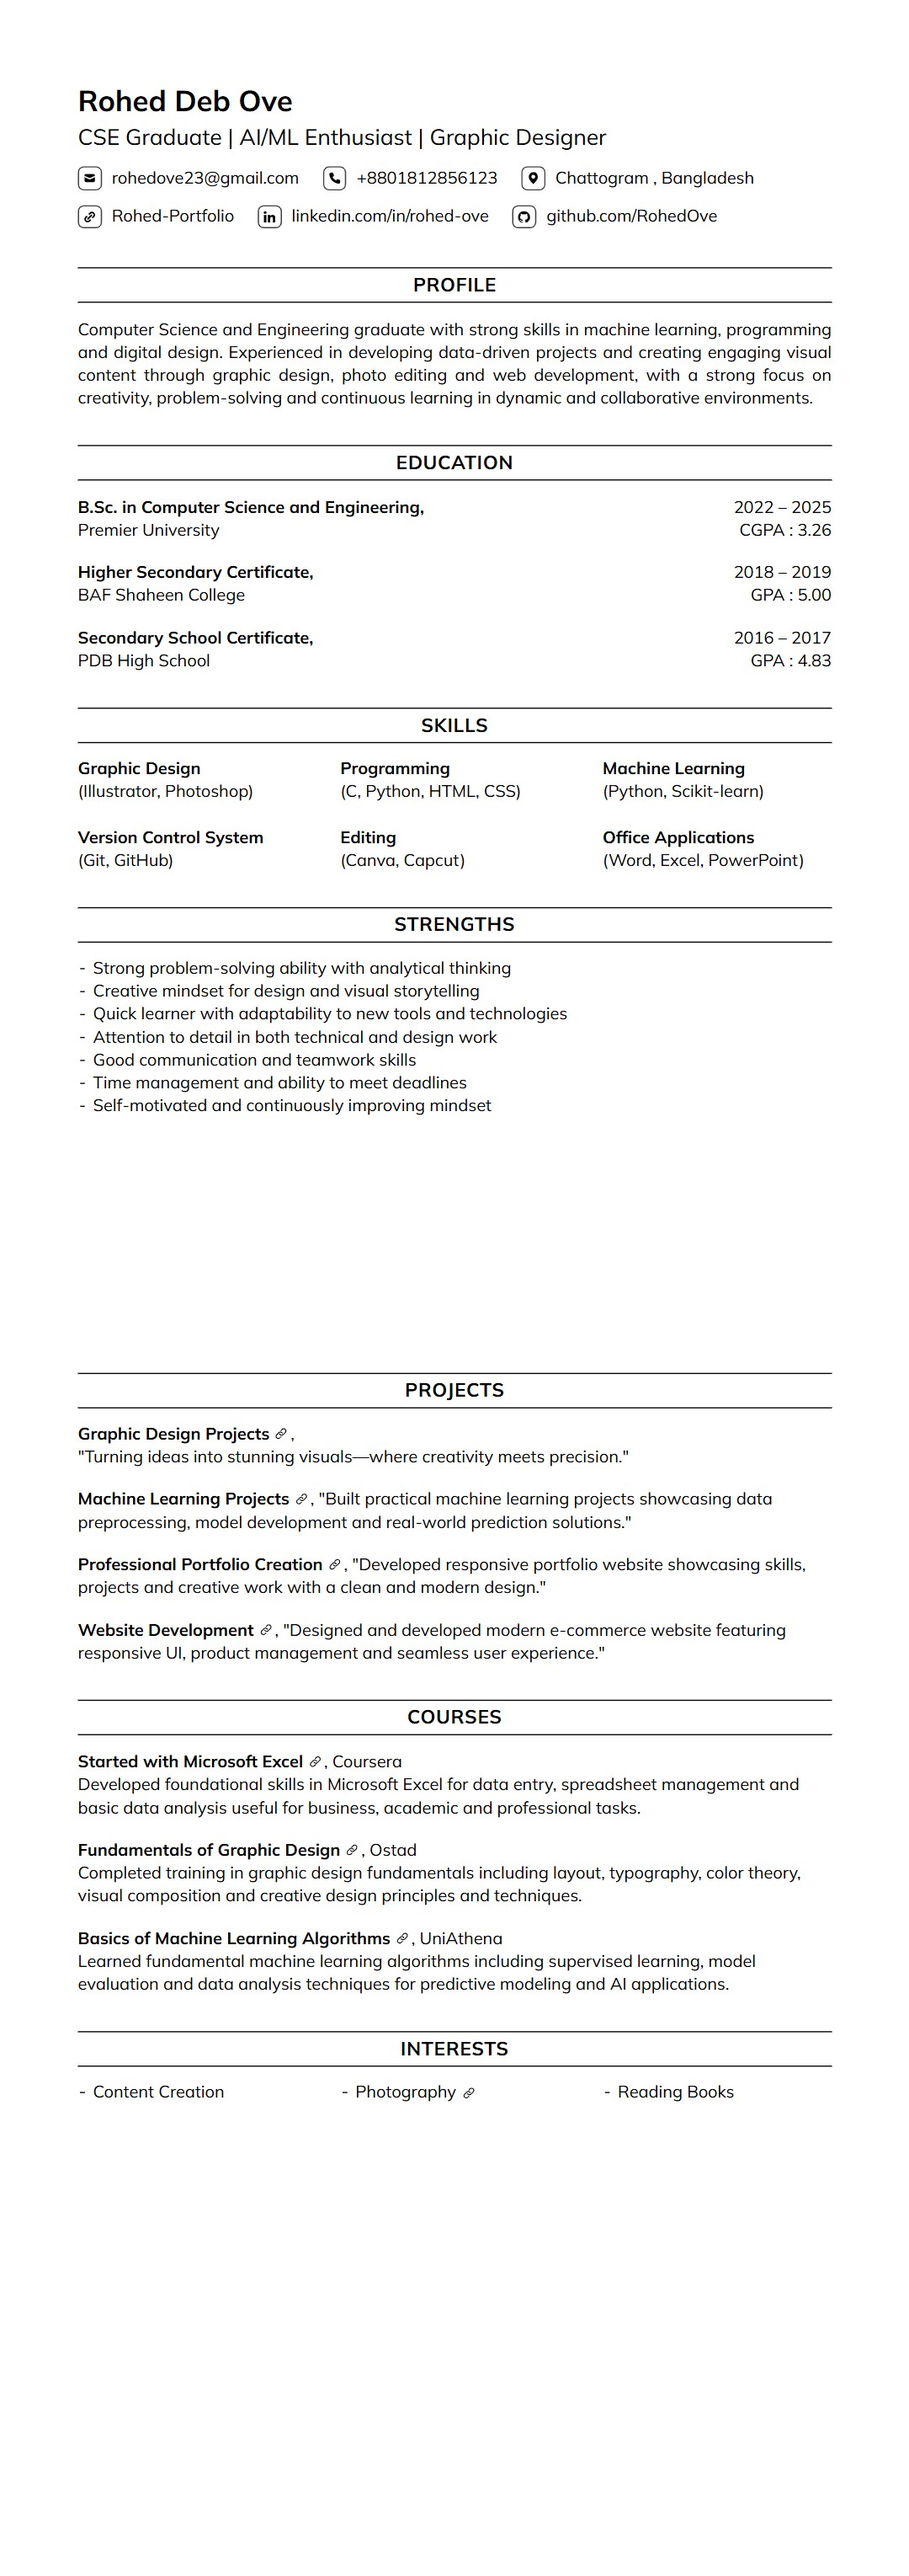
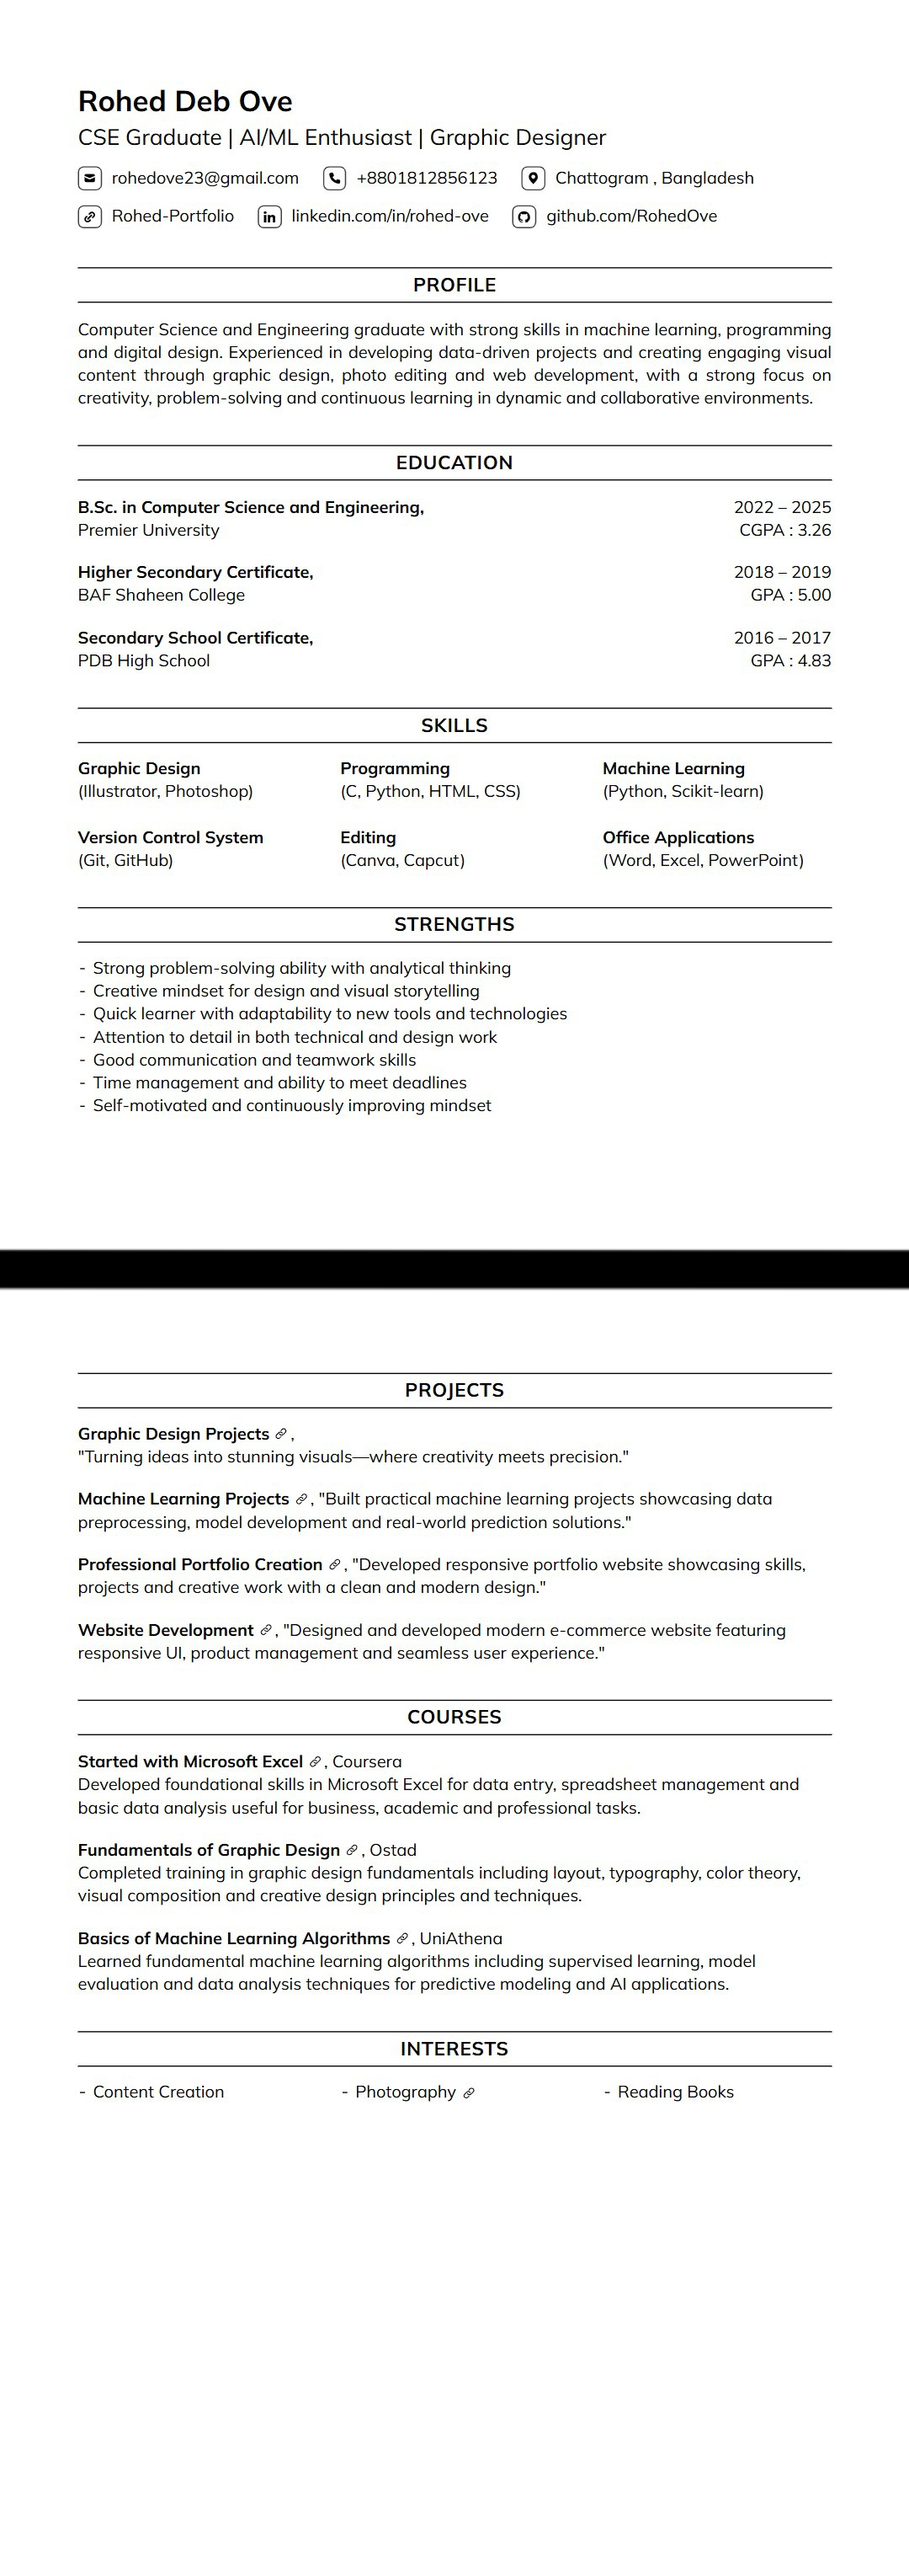
add

Changed region(s): [[0.0, 0.466, 1.0, 0.5281]]

diff --git a/index.html b/index.html
@@ -2080,7 +2080,7 @@
         <a href="#about">About</a>
         <a href="#education">Education</a>
         <a href="#experience">Experience</a>
-        <a href="#work">Work</a>
+        <a href="#work">Projects</a>
         <a href="#courses">Courses</a>
         <a href="#contact">Contact</a>
       </nav>
@@ -2092,10 +2092,11 @@
             </svg>
           </span>
           <span class="ts-icon icon-sun" aria-hidden="true">
-            <svg viewBox="0 0 24 24" fill="none" stroke="currentColor" stroke-width="2.4"
-              stroke-linecap="round" stroke-linejoin="round">
+            <svg viewBox="0 0 24 24" fill="none" stroke="currentColor" stroke-width="2.4" stroke-linecap="round"
+              stroke-linejoin="round">
               <circle cx="12" cy="12" r="4.2" />
-              <path d="M12 2.5v2.4M12 19.1v2.4M4.4 4.4l1.7 1.7M17.9 17.9l1.7 1.7M2.5 12h2.4M19.1 12h2.4M4.4 19.6l1.7-1.7M17.9 6.1l1.7-1.7" />
+              <path
+                d="M12 2.5v2.4M12 19.1v2.4M4.4 4.4l1.7 1.7M17.9 17.9l1.7 1.7M2.5 12h2.4M19.1 12h2.4M4.4 19.6l1.7-1.7M17.9 6.1l1.7-1.7" />
             </svg>
           </span>
           <span class="theme-switch-knob"></span>
@@ -2113,7 +2114,7 @@
     <a href="#about">About</a>
     <a href="#education">Education</a>
     <a href="#experience">Experience</a>
-    <a href="#work">Work</a>
+    <a href="#work">Projects</a>
     <a href="#courses">Courses</a>
     <a href="#contact">Contact</a>
   </div>
@@ -2124,14 +2125,14 @@
     <section class="hero">
       <div class="container hero-grid">
         <div>
-          <span class="eyebrow">CSE Graduate — Chattogram, Bangladesh</span>
+          <span class="eyebrow">ENGINEERING DIGITAL SOLUTIONS</span>
           <h1 class="hero-name">Rohed<br><em>Deb Ove</em></h1>
-          <p class="hero-tagline">CSE graduate with a passion for machine learning, creative design and building things
+          <p class="hero-tagline">cse graduate with a passion for machine learning, creative design and building things
             that matter.</p>
           <div class="hero-cta">
-            <a href="#work" class="btn btn-primary magnetic" data-cursor="View">See the work</a>
+            <a href="#work" class="btn btn-primary magnetic" data-cursor="View">See the Work</a>
             <a href="#resume" class="btn btn-outline magnetic" data-cursor="CV">View CV</a>
-            <a href="#contact" class="btn btn-primary magnetic" data-cursor="Hello">Say hello</a>
+            <a href="#contact" class="btn btn-primary magnetic" data-cursor="Hello">Say Hello</a>
           </div>
         </div>
         <div class="hero-side">
@@ -2168,19 +2169,22 @@
         </div>
         <div class="about-bio">
           <span class="eyebrow reveal">About</span>
-          <h2 class="reveal">Crafting ideas into reality.</h2>
+          <h2 class="reveal">Crafting Ideas Into Reality</h2>
           <p class="reveal">I'm a <strong>Computer Science and Engineering graduate</strong> with interest in machine
             learning, programming and digital design. I enjoy building systems that are intelligent and visually
             compelling.</p>
-          <p class="reveal">My work spans from <strong>training predictive ML models</strong> to designing sharp visual
-            identities and developing responsive web experiences — always with a focus on creativity, precision and
-            purpose.</p>
+          <p class="reveal">My work spans from <strong>training predictive ML models</strong> to designing sharp
+            <strong>visual
+              identities</strong> and developing responsive <strong>web experiences</strong> — always with a focus on
+            creativity, precision and
+            purpose.
+          </p>
           <p class="reveal">Based in Chattogram, Bangladesh, I'm actively seeking new professional opportunities to
             contribute to meaningful projects and grow in dynamic collaborative environments.</p>
           <div class="marquee reveal">
             <div class="marquee-track">
-              <span>Illustrator<span></span>Canva<span></span>Python<span></span>Scikit-learn<span></span>C<span></span>HTML<span></span>CSS<span></span>Git<span></span>GitHub<span></span>CapCut<span></span>
-                <span>Illustrator<span></span>Canva<span></span>Python<span></span>Scikit-learn<span></span>C<span></span>HTML<span></span>CSS<span></span>Git<span></span>GitHub<span></span>CapCut<span></span>
+              <span>Illustrator<span></span>Photoshop<span></span>Canva<span></span>Python<span></span>Scikit-learn<span></span>C<span></span>HTML<span></span>CSS<span></span>Git<span></span>GitHub<span></span>CapCut<span></span>
+                <span>Illustrator<span></span>Photoshop<span></span>Canva<span></span>Python<span></span>Scikit-learn<span></span>C<span></span>HTML<span></span>CSS<span></span>Git<span></span>GitHub<span></span>CapCut<span></span>
             </div>
           </div>
         </div>
@@ -2193,7 +2197,7 @@
         <div class="section-head reveal">
           <div>
             <span class="eyebrow">Education</span>
-            <h2>Academic journey.</h2>
+            <h2>Academic Journey</h2>
           </div>
           <p>Three stages, one steady climb — from secondary school to a CSE degree.</p>
         </div>
@@ -2229,7 +2233,7 @@
         <div class="section-head reveal">
           <div>
             <span class="eyebrow">Experience</span>
-            <h2>Relevant expertise.</h2>
+            <h2>Relevant Expertise</h2>
           </div>
           <p>Where the theory meets the work.</p>
         </div>
@@ -2256,11 +2260,11 @@
       <div class="container">
         <div class="section-head reveal">
           <div>
-            <span class="eyebrow">Selected Work</span>
-            <h2>A handful of things worth a second look.</h2>
+            <span class="eyebrow">Selected Projects</span>
+            <h2>A handful of Things worth a Second look</h2>
           </div>
-          <p>Each project blends design, machine learning and web development in a different mix — the bar shows the
-            split.</p>
+          <!-- <p>Each project blends design, machine learning and web development in a different mix — the bar shows the
+            split.</p> -->
         </div>
 
         <div class="work-grid">
@@ -2274,12 +2278,12 @@
             </div>
             <div class="work-meta">
               <h3 class="work-title">Graphic Design Projects</h3>
-              <p class="work-desc">Turning ideas into stunning visuals — brand identities, digital artwork and visual
-                communication pieces crafted with attention to detail.</p>
-              <div class="mix-bar"><span style="width:80%;background:var(--amber);"></span><span
-                  style="width:5%;background:var(--cobalt);"></span><span
+              <p class="work-desc">Turning ideas into stunning visuals — brand identities, digital artwork, and visual
+                communication pieces crafted with attention to detail and creative excellence.</p>
+              <div class="mix-bar"><span style="width:85%;background:var(--amber);"></span><span
+                  style="width:0%;background:var(--cobalt);"></span><span
                   style="width:15%;background:var(--ink-soft);"></span></div>
-              <div class="mix-label"><b>Design 80</b> · ML 5 · Web 15</div>
+              <div class="mix-label"><b>Design 85</b> · ML 0 · Web 15</div>
             </div>
           </article>
 
@@ -2295,9 +2299,9 @@
               <p class="work-desc">Practical ML projects showcasing data preprocessing, model development and real-world
                 prediction solutions built with Scikit-learn and Python.</p>
               <div class="mix-bar"><span style="width:10%;background:var(--amber);"></span><span
-                  style="width:80%;background:var(--cobalt);"></span><span
-                  style="width:10%;background:var(--ink-soft);"></span></div>
-              <div class="mix-label">Design 10 · <b>ML 80</b> · Web 10</div>
+                  style="width:90%;background:var(--cobalt);"></span><span
+                  style="width:0%;background:var(--ink-soft);"></span></div>
+              <div class="mix-label">Design 10 · <b>ML 90</b> · Web 0</div>
             </div>
           </article>
 
@@ -2346,19 +2350,19 @@
       <div class="stats-bar reveal">
         <div class="stat">
           <div class="num" data-count="4">0</div>
-          <div class="label">Projects shipped</div>
+          <div class="label">Projects Shipped</div>
         </div>
         <div class="stat">
           <div class="num" data-count="3">0</div>
-          <div class="label">Certifications earned</div>
+          <div class="label">Certifications Earned</div>
         </div>
         <div class="stat">
           <div class="num" data-count="1">0</div>
-          <div class="label">Internship completed</div>
+          <div class="label">Internship Completed</div>
         </div>
         <div class="stat">
-          <div class="num-static">3.26</div>
-          <div class="label">CGPA</div>
+          <div class="num-static">&infin;</div>
+          <div class="label">CUPS OF COFFEE</div>
         </div>
       </div>
     </div>
@@ -2395,14 +2399,14 @@
         <div class="section-head reveal" style="margin-top:5rem;text-align:left;">
           <div>
             <span class="eyebrow">Certificates</span>
-            <h2>Verified credentials.</h2>
+            <h2>Verified Credentials</h2>
           </div>
-          <p>Click any card to preview the certificate.</p>
+          <p>Expanding skills with every certification.</p>
         </div>
         <div class="cert-grid">
           <div class="cert-card reveal" data-pdf="Certificate/Microsoft_Excel_Fundamentals.pdf"
-            data-img="Certificate/Microsoft_Excel_Fundamentals_preview.jpg"
-            data-title="Microsoft Excel Fundamentals" data-provider="Coursera Certified">
+            data-img="Certificate/Microsoft_Excel_Fundamentals_preview.jpg" data-title="Microsoft Excel Fundamentals"
+            data-provider="Coursera Certified">
             <div class="cert-bg">
               <iframe src="Certificate/Microsoft_Excel_Fundamentals.pdf#toolbar=0&navpanes=0&statusbar=0&view=FitH"
                 tabindex="-1" loading="lazy" title="Microsoft Excel Fundamentals certificate preview"></iframe>
@@ -2415,8 +2419,8 @@
             </div>
           </div>
           <div class="cert-card reveal" data-pdf="Certificate/Graphic_Design_Principles.pdf"
-            data-img="Certificate/Graphic_Design_Principles_preview.jpg"
-            data-title="Graphic Design Principles" data-provider="Ostad Certified">
+            data-img="Certificate/Graphic_Design_Principles_preview.jpg" data-title="Graphic Design Principles"
+            data-provider="Ostad Certified">
             <div class="cert-bg">
               <iframe src="Certificate/Graphic_Design_Principles.pdf#toolbar=0&navpanes=0&statusbar=0&view=FitH"
                 tabindex="-1" loading="lazy" title="Graphic Design Principles certificate preview"></iframe>
@@ -2429,8 +2433,8 @@
             </div>
           </div>
           <div class="cert-card reveal" data-pdf="Certificate/Machine_Learning_Algorithms.pdf"
-            data-img="Certificate/Machine_Learning_Algorithms_preview.jpg"
-            data-title="Machine Learning Algorithms" data-provider="UniAthena Certified">
+            data-img="Certificate/Machine_Learning_Algorithms_preview.jpg" data-title="Machine Learning Algorithms"
+            data-provider="UniAthena Certified">
             <div class="cert-bg">
               <iframe src="Certificate/Machine_Learning_Algorithms.pdf#toolbar=0&navpanes=0&statusbar=0&view=FitH"
                 tabindex="-1" loading="lazy" title="Machine Learning Algorithms certificate preview"></iframe>
@@ -2452,11 +2456,11 @@
         <div class="resume-band reveal">
           <div>
             <span class="eyebrow">Resume</span>
-            <h2>The full picture, on paper.</h2>
+            <h2>The full picture, On paper</h2>
             <p>Education, experience, skills and projects — laid out in one place, ready to download.</p>
             <div class="hero-cta">
-              <button class="btn btn-primary magnetic" id="openResume" data-cursor="Open">Preview resume</button>
-              <a href="Rohed_Resume.pdf" download="Rohed_Deb_Ove_Resume.pdf"
+              <button class="btn btn-primary magnetic" id="openResume" data-cursor="Open">Preview Resume</button>
+              <a href="Rohed_Resume.pdf" download="Rohed_Resume.pdf"
                 class="btn btn-outline magnetic force-download">Download PDF</a>
             </div>
           </div>
@@ -2484,7 +2488,7 @@
       <div class="container contact-grid">
         <div>
           <span class="eyebrow reveal">Contact</span>
-          <h2 class="reveal">Let's build<br>something great.</h2>
+          <h2 class="reveal">Let's build<br>Something great</h2>
           <p class="contact-sub reveal">Open to full-time roles, freelance projects and creative collaborations. If you
             have an interesting problem, I'd love to hear about it.</p>
           <div class="social-list reveal" style="margin-top:1.4rem;">
@@ -2544,7 +2548,7 @@
         <form class="reveal" onsubmit="return false;">
           <div class="form-field">
             <label for="fname">Name</label>
-            <input type="text" id="fname" placeholder="Your name">
+            <input type="text" id="fname" placeholder="your name">
           </div>
           <div class="form-field">
             <label for="femail">Email</label>
@@ -2552,7 +2556,7 @@
           </div>
           <div class="form-field">
             <label for="fmsg">Message</label>
-            <textarea id="fmsg" placeholder="What are you building?"></textarea>
+            <textarea id="fmsg" placeholder="drop me a message..."></textarea>
           </div>
           <button type="submit" class="btn btn-primary magnetic">Send message</button>
         </form>
@@ -2565,7 +2569,7 @@
     <div class="container"
       style="display:flex;justify-content:space-between;align-items:center;flex-wrap:wrap;gap:1rem;width:100%;">
       <span>Rohed.Ove</span>
-      <span class="back-top">Design · ML/AI · Web Dev</span>
+      <span class="back-top">Design · AI/ML · Web Dev</span>
     </div>
   </footer>
 
@@ -2811,7 +2815,7 @@
       counters.forEach(el => cio.observe(el));
 
       /* ---------- STATUS LINE ROTATOR ---------- */
-      const statuses = ['designing', 'training a model', 'writing code', 'editing a video', 'learning something new'];
+      const statuses = ['designing', 'writing code', 'learning something'];
       let sIdx = 0;
       const statusEl = document.getElementById('statusLine');
       setInterval(() => {
